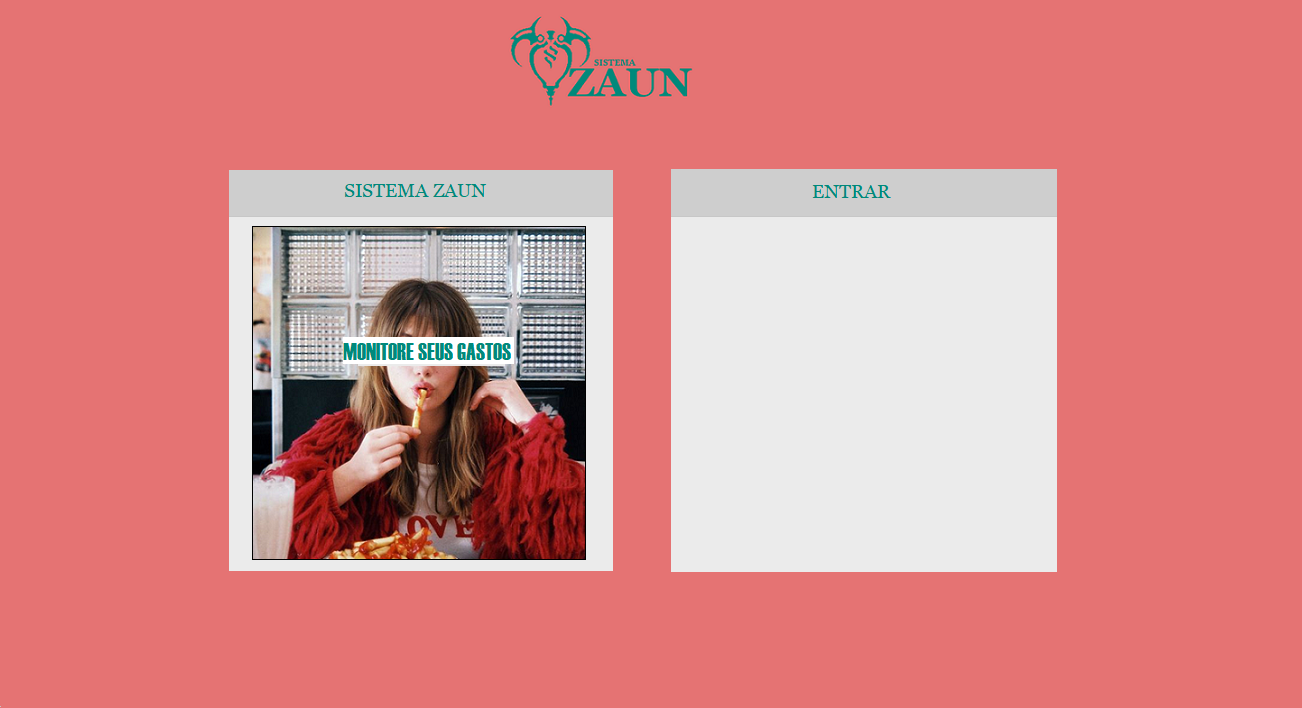
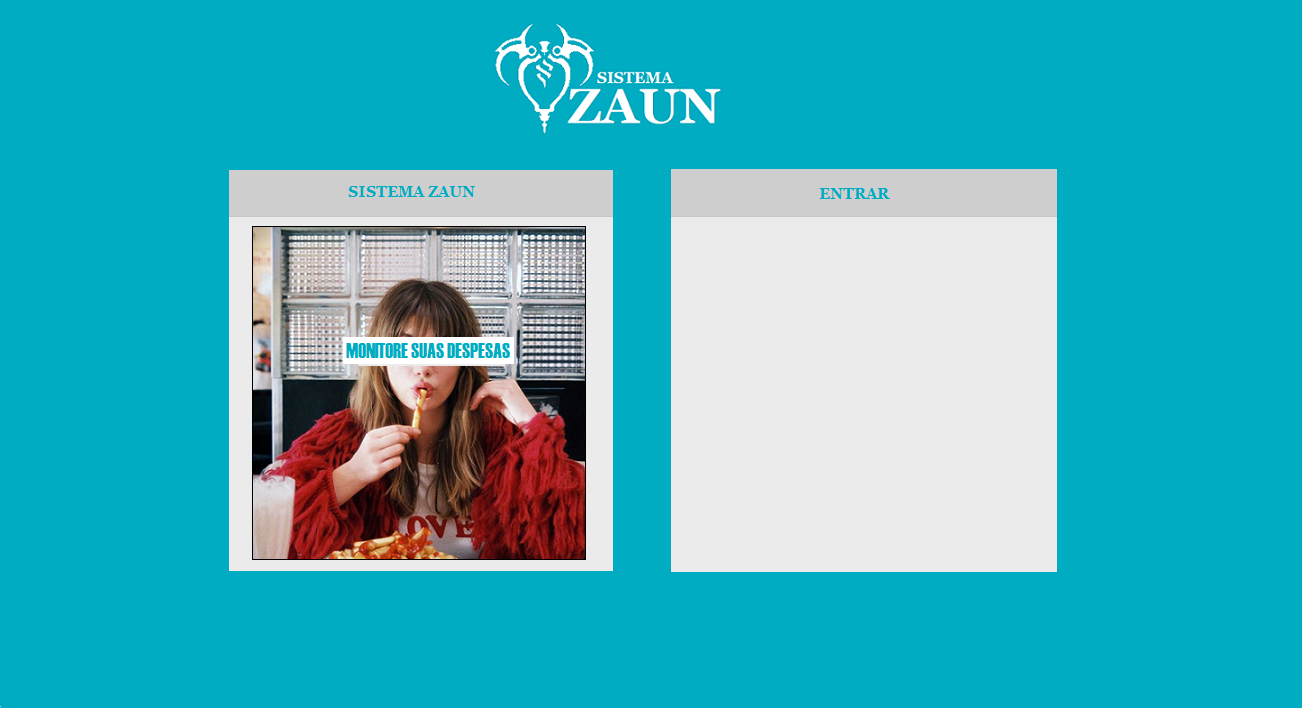
Mudança na paleta de cores

diff --git a/Cadastrar.html b/Cadastrar.html
@@ -1,28 +1,35 @@
 <DOCTYPE! html>
 <html lang="pt-br" >
     <head>
-        <link href="Style-Acessar.css" type="text/css" rel="stylesheet">
-        <title>Login - Sistema Zaun</title>
+        <link href="Style-Cadastrar.css" type="text/css" rel="stylesheet">
+        <title>Sign in - Sistema Zaun</title>
         <meta charset="utf-8">
         <meta name="viewport" content="width=device-width, initial-scale=1">
         <link rel="stylesheet" href="https://maxcdn.bootstrapcdn.com/bootstrap/3.3.7/css/bootstrap.min.css">
         <script src="https://ajax.googleapis.com/ajax/libs/jquery/3.2.1/jquery.min.js"></script>
         <script src="https://maxcdn.bootstrapcdn.com/bootstrap/3.3.7/js/bootstrap.min.js"></script>
         <link rel="stylesheet" href="https://cdnjs.cloudflare.com/ajax/libs/materialize/0.100.2/css/materialize.min.css">
-    </head>
+    </head>    
     <body>
-        <div id="acessar" class="acessar-image">
-            <div class="acessar">
-                <form id="acessar" action="/action_page.php" autocomplete="on">
+        <div class="cadastro-image">
+            <div class="cadastro row col s6">
+                <form id="cadastro" class="cad">
+                    <div class="form-group">
+                        <input type="text" class="form-control input" name="fname" placeholder="Seu nome"><br>
+                    </div>
+                    <div class="form-group">
+                        <input type="text" class="form-control input" name="lname" placeholder="Sobrenome"><br>
+                    </div>
                     <div class="form-group">
                         <input type="email" class="form-control input" name="email" autocomplete="off" placeholder="E-mail"><br>
                     </div>
                     <div class="form-group">
                         <input type="password" class="form-control input" name="psw" placeholder="Senha"><br>
-                    </div> 
-                    <a href="Adicionar%20Despesa.html"><input type="button" value="Entrar" id="entrar" class="btn"></a><!--VER SE É SUBMIT MSM-->
+                    </div>
+                    <a href="Sistema%20de%20Contas%20a%20Pagar.html"><input class="btn waves-effect waves-light" id="cadastrar" type="button" value="Enviar"></a>
                 </form>
             </div>
-        </div> <!--Formulario de Acessar-->
+        </div> <!--Formulário de Cadastro-->
+
     </body>
 </html>

diff --git a/Adicionar Despesa.html b/Adicionar Despesa.html
@@ -17,9 +17,9 @@
         <main>
             <div class="navbar-fixed">
             <nav>
-                <div class="nav-wrapper">
+                <div class="">
                   <a href="#" class="brand-logo"><img src="Imagens/botao.png"></a>
-                  <ul id="nav-mobile" class="right hide-on-med-and-down">
+                  <ul id="menu" class="right hide-on-med-and-down">
                     <li><a href="Adicionar%20Despesa.html">Adicionar Despesa</a></li>
                     <li><a href="Consultas.html">Consultas</a></li>
                     <li><a href="Sistema%20de%20Contas%20a%20Pagar.html" class="active">Sair</a></li>
@@ -38,8 +38,8 @@
                     <div class="section">
                         <h4 class="col s7">Selecione o tipo de pagamento:</h4>
                         <br>
-                        <input type="button" class="btn col s2 offset" data-toggle="collapse" data-target="#vista" value="À vista">
-                        <input type="button" class="btn col s2 offset right" data-toggle="collapse" data-target="#prazo" value="À prazo">
+                        <input type="button" id="a" class="btn col s2 offset" data-toggle="collapse" data-target="#vista" value="À vista">
+                        <input type="button" id="b" class="btn col s2 offset right" data-toggle="collapse" data-target="#prazo" value="À prazo">
                     </div>
                 </div>
             </div>
@@ -56,7 +56,7 @@
                     <label class="control-label">Data do pagamento:</label>
                     <input type="date">
 
-                    <p><a href="Consultas.html"><input type="button" class="btn btn-danger" value="OK"></a></p>
+                    <p><a href="Consultas.html"><input id="c" type="button" class="btn btn-danger" value="OK"></a></p>
                     <br><br><br>
                 </div>
                 <div class="pl">
@@ -85,7 +85,7 @@
                     <label class="control-label">Multa:</label>
                     <input type="number" placeholder="-">
                     
-                    <p><a href="Consultas.html"><input type="button" class="btn btn-danger" value="OK"></a></p>
+                    <p><a href="Consultas.html"><input id="d" type="button" class="btn btn-danger" value="OK"></a></p>
                     <br><br><br><br><br>
                     </div> </div> 
             </div>

diff --git a/Sistema de Contas a Pagar.html b/Sistema de Contas a Pagar.html
@@ -9,36 +9,16 @@
         <link rel="stylesheet" href="https://maxcdn.bootstrapcdn.com/bootstrap/3.3.7/css/bootstrap.min.css">
         <script src="https://ajax.googleapis.com/ajax/libs/jquery/3.2.1/jquery.min.js"></script>
         <script src="https://maxcdn.bootstrapcdn.com/bootstrap/3.3.7/js/bootstrap.min.js"></script>
+        <link rel="stylesheet" href="https://cdnjs.cloudflare.com/ajax/libs/materialize/0.100.2/css/materialize.min.css">
     </head>    
     <body>
         <div class="hero-image" id="home">
             <div class="hero-text">
                 <h1 style="font-size:50px">Sistemas de Contas a Pagar</h1>
                 <p>Contas organizadas? Não tem preço</p>
-                <a href="#cadastro"><button onclick="cadastro()">Cadastre-se</button></a>
+                <a href="Cadastrar.html"><button>Cadastre-se</button></a>
             </div>
-        </div> <!--Página Inicial-->
-        
-        <div class="cadastro-image">
-            <div class="cadastro">
-                <form id="cadastro" class="cad" autocomplete="on">
-                    <div class="form-group">
-                        <input type="text" class="form-control input" name="fname" placeholder="Seu nome"><br>
-                    </div>
-                    <div class="form-group">
-                        <input type="text" class="form-control input" name="lname" placeholder="Sobrenome"><br>
-                    </div>
-                    <div class="form-group">
-                        <input type="email" class="form-control input" name="email" autocomplete="off" placeholder="E-mail"><br>
-                    </div>
-                    <div class="form-group">
-                        <input type="password" class="form-control input" name="psw" placeholder="Senha"><br>
-                    </div>
-                    <a href="Sistema%20de%20Contas%20a%20Pagar.html"><input type="button" value="Cadastrar" class="btn btn-danger"></a>
-                </form>
-            </div>
-        </div> <!--Formulário de Cadastro-->
-        
+        </div> <!--Página Inicial-->      
  
         <ul> 
             <li><a class="active" href="#home">INÍCIO</a></li>

diff --git a/Style.css b/Style.css
@@ -37,52 +37,21 @@ body, html {
   color: white;
 }    
 
-.enviar button {
-    border: none;
-    outline: 0;
-    display: inline-block;
-    padding: 10px 15px;
-    color: black;
-    background-color: #ddd;
-    text-align: center;
-    cursor: pointer;
-}
-
-
-.cadastro{
-    position: absolute;
-    padding-left: 700px;
-    padding-bottom: 200px;
-    padding-top: 160px;
-
-}
-
-.cadastro-image{
-    background-image: url("Imagens/zaun.jpg");
-    height: 100%;
-    margin: 0;
-    background-position: center;
-    background-repeat: no-repeat;
-    background-size: cover;
-    position: relative;
-}
-
-body {margin:0;}
-
 ul {
     list-style-type: none;
     margin: 0;
     padding: 0;
     overflow: hidden;
     background-color: #333;
-    opacity: 0.7;
     position: fixed;
     top: 0;
     width: 100%;
+    text-decoration: none;
 }
 
 li {
     float: left;
+    text-decoration: none;
 }
 
 li a {
@@ -99,6 +68,6 @@ li a:hover:not(.active) {
 }
 
 .active {
-    background-color: #e57373;
+    background-color: #00acc1;
+    text-decoration: none;
 }
-

diff --git a/Consultas.html b/Consultas.html
@@ -16,9 +16,9 @@
     <body>
         <div class="navbar-fixed">
             <nav>
-                <div class="nav-wrapper">
+                <div class="menu">
                   <a href="#" class="brand-logo"><img src="Imagens/botao.png"></a>
-                  <ul id="nav-mobile" class="right hide-on-med-and-down">
+                  <ul class="right hide-on-med-and-down">
                     <li><a href="Adicionar%20Despesa.html">Adicionar Despesa</a></li>
                     <li><a href="Consultas.html">Consultas</a></li>
                     <li><a href="Sistema%20de%20Contas%20a%20Pagar.html" class="active">Sair</a></li>

diff --git a/Style-Cadastrar.css b/Style-Cadastrar.css
@@ -1,0 +1,24 @@
+body, html {
+    height: 100%;
+    margin: 0;
+}
+
+.cadastro{
+    padding-top: 120px;
+    max-width:650px;
+    padding-left: 400px;
+}
+
+#cadastrar{
+    background-color: #00acc1;
+}
+
+.cadastro-image{
+    background-image: url("Imagens/zaun2.png");
+    height: 100%;
+    margin: 0;
+    background-position: center;
+    background-repeat: no-repeat;
+    background-size: cover;
+    position: relative;
+}

diff --git a/Style-ADD.css b/Style-ADD.css
@@ -7,12 +7,27 @@ li a:hover:not(.active){
     text-decoration: none;
 }
 .active{
-    background-color: #00897b;
+    background-color: #00acc1;
     text-decoration: none;
-  
 }
 
 
 .btn{
     float: right;
+}
+
+#a{
+    background-color: #00acc1;
+}
+
+#b{
+    background-color: #00acc1;
+}
+
+#c{
+    background-color: #00acc1;
+}
+
+#d{
+    background-color: #00acc1;
 }

diff --git a/Style-Consultas.css b/Style-Consultas.css
@@ -7,7 +7,11 @@ li a:hover:not(.active){
     text-decoration: none;
 }
 .active{
-    background-color: #00897b;
+    background-color: #00acc1;
     text-decoration: none;
   
+}
+
+div.menu{
+    background-color: #1E1E1E;
 }

diff --git a/Style-Acessar.css b/Style-Acessar.css
@@ -16,3 +16,7 @@
     padding-top: 280px;
 
 }
+
+#entrar{
+    background-color: #00acc1;
+}

diff --git a/README.md b/README.md
@@ -1,1 +1,1 @@
-# Sistema-Zaun
+#Sistema-Zaun
